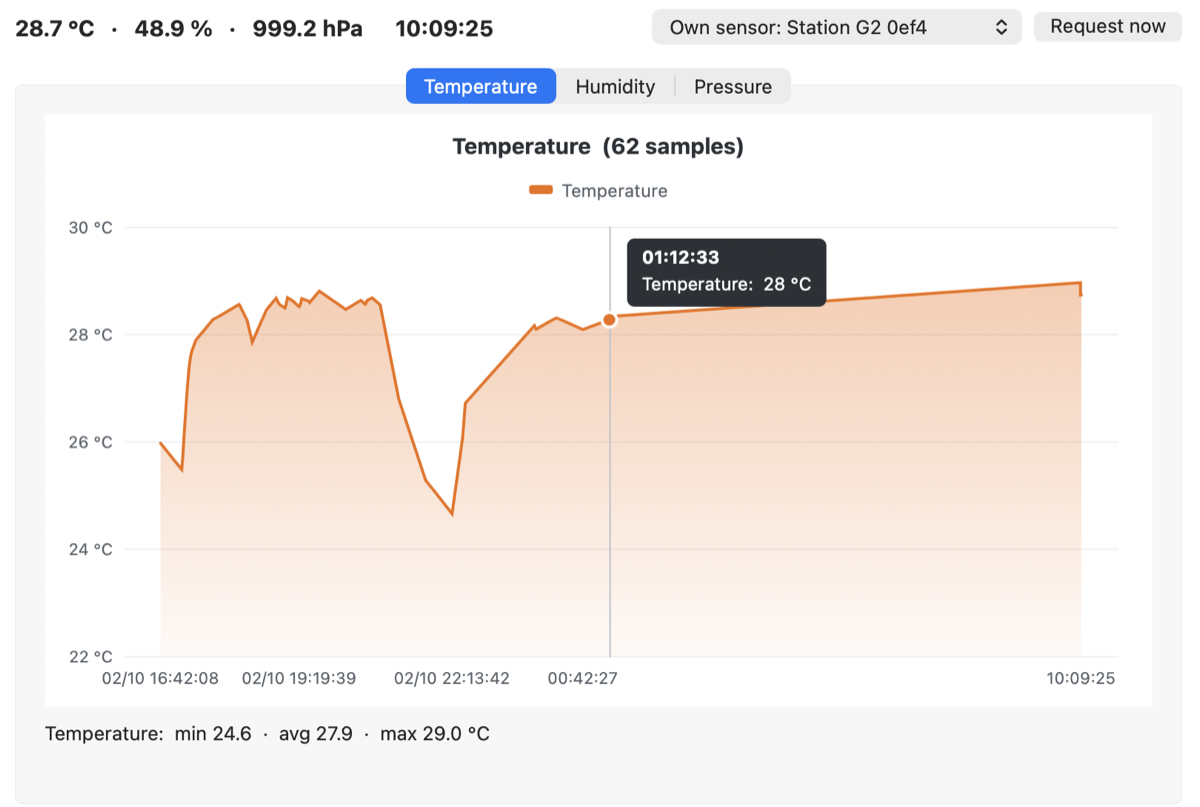
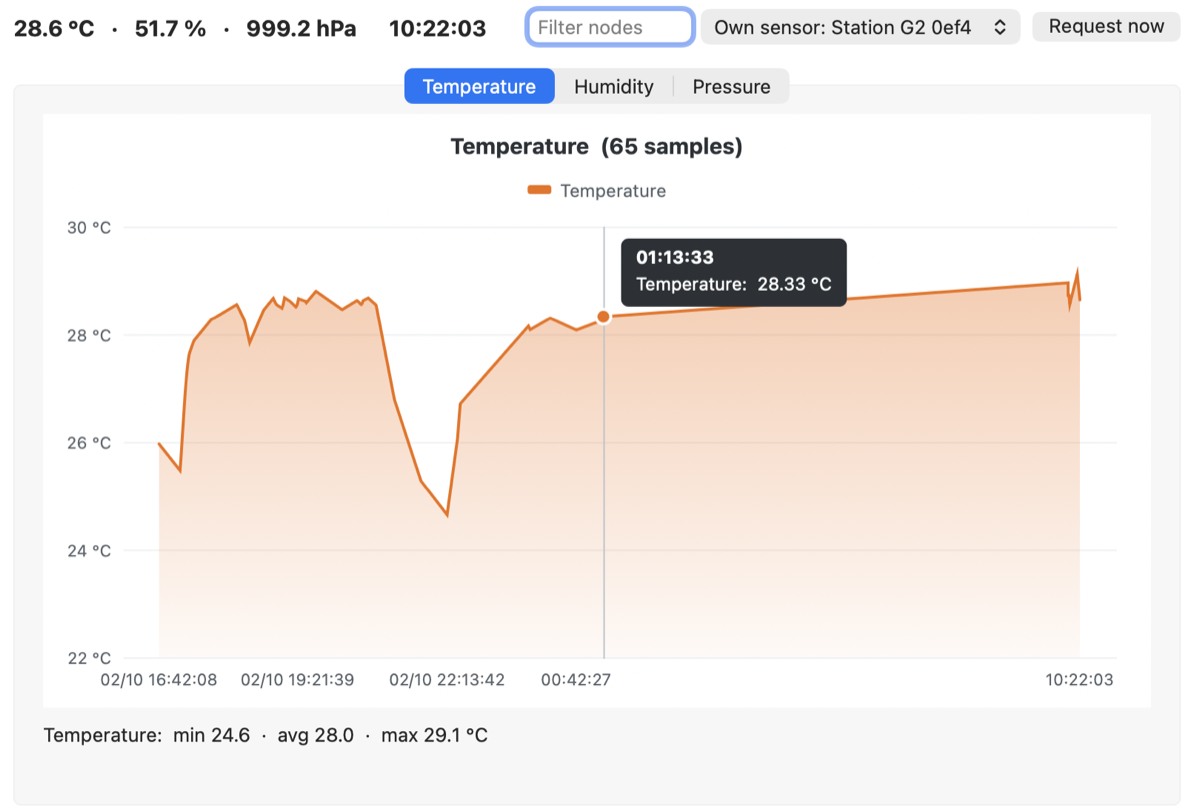
README: device screenshots with the node filter and hover decimals
Cropped below the title bar.

diff --git a/README.md b/README.md
@@ -12,7 +12,7 @@ There are no plugins, no Python and no external tools. The Meshtastic parts use 
 
 ## Screenshots
 
-A Meshtastic node's own BME680, followed over its TCP connection. The window opened with the readings stored since the day before (dated labels), and live ones continue from there. At the top, the latest values, and the menu to chart another node with **Request now**; under each chart, min / avg / max. The value under the mouse shows in a box, and samples sit at their real time, so the overnight gap keeps its width.
+A Meshtastic node's own BME680, followed over its TCP connection. The window opened with the readings stored since the day before (dated labels), and live ones continue from there. At the top, the latest values, and the filter field and menu to chart another node, with **Request now**; under each chart, min / avg / max. The value under the mouse shows in a box, and samples sit at their real time, so the overnight gap keeps its width.
 
 ![Temperature chart of a Meshtastic node, with the hover box](docs/screenshots/device-temperature.png)
 
